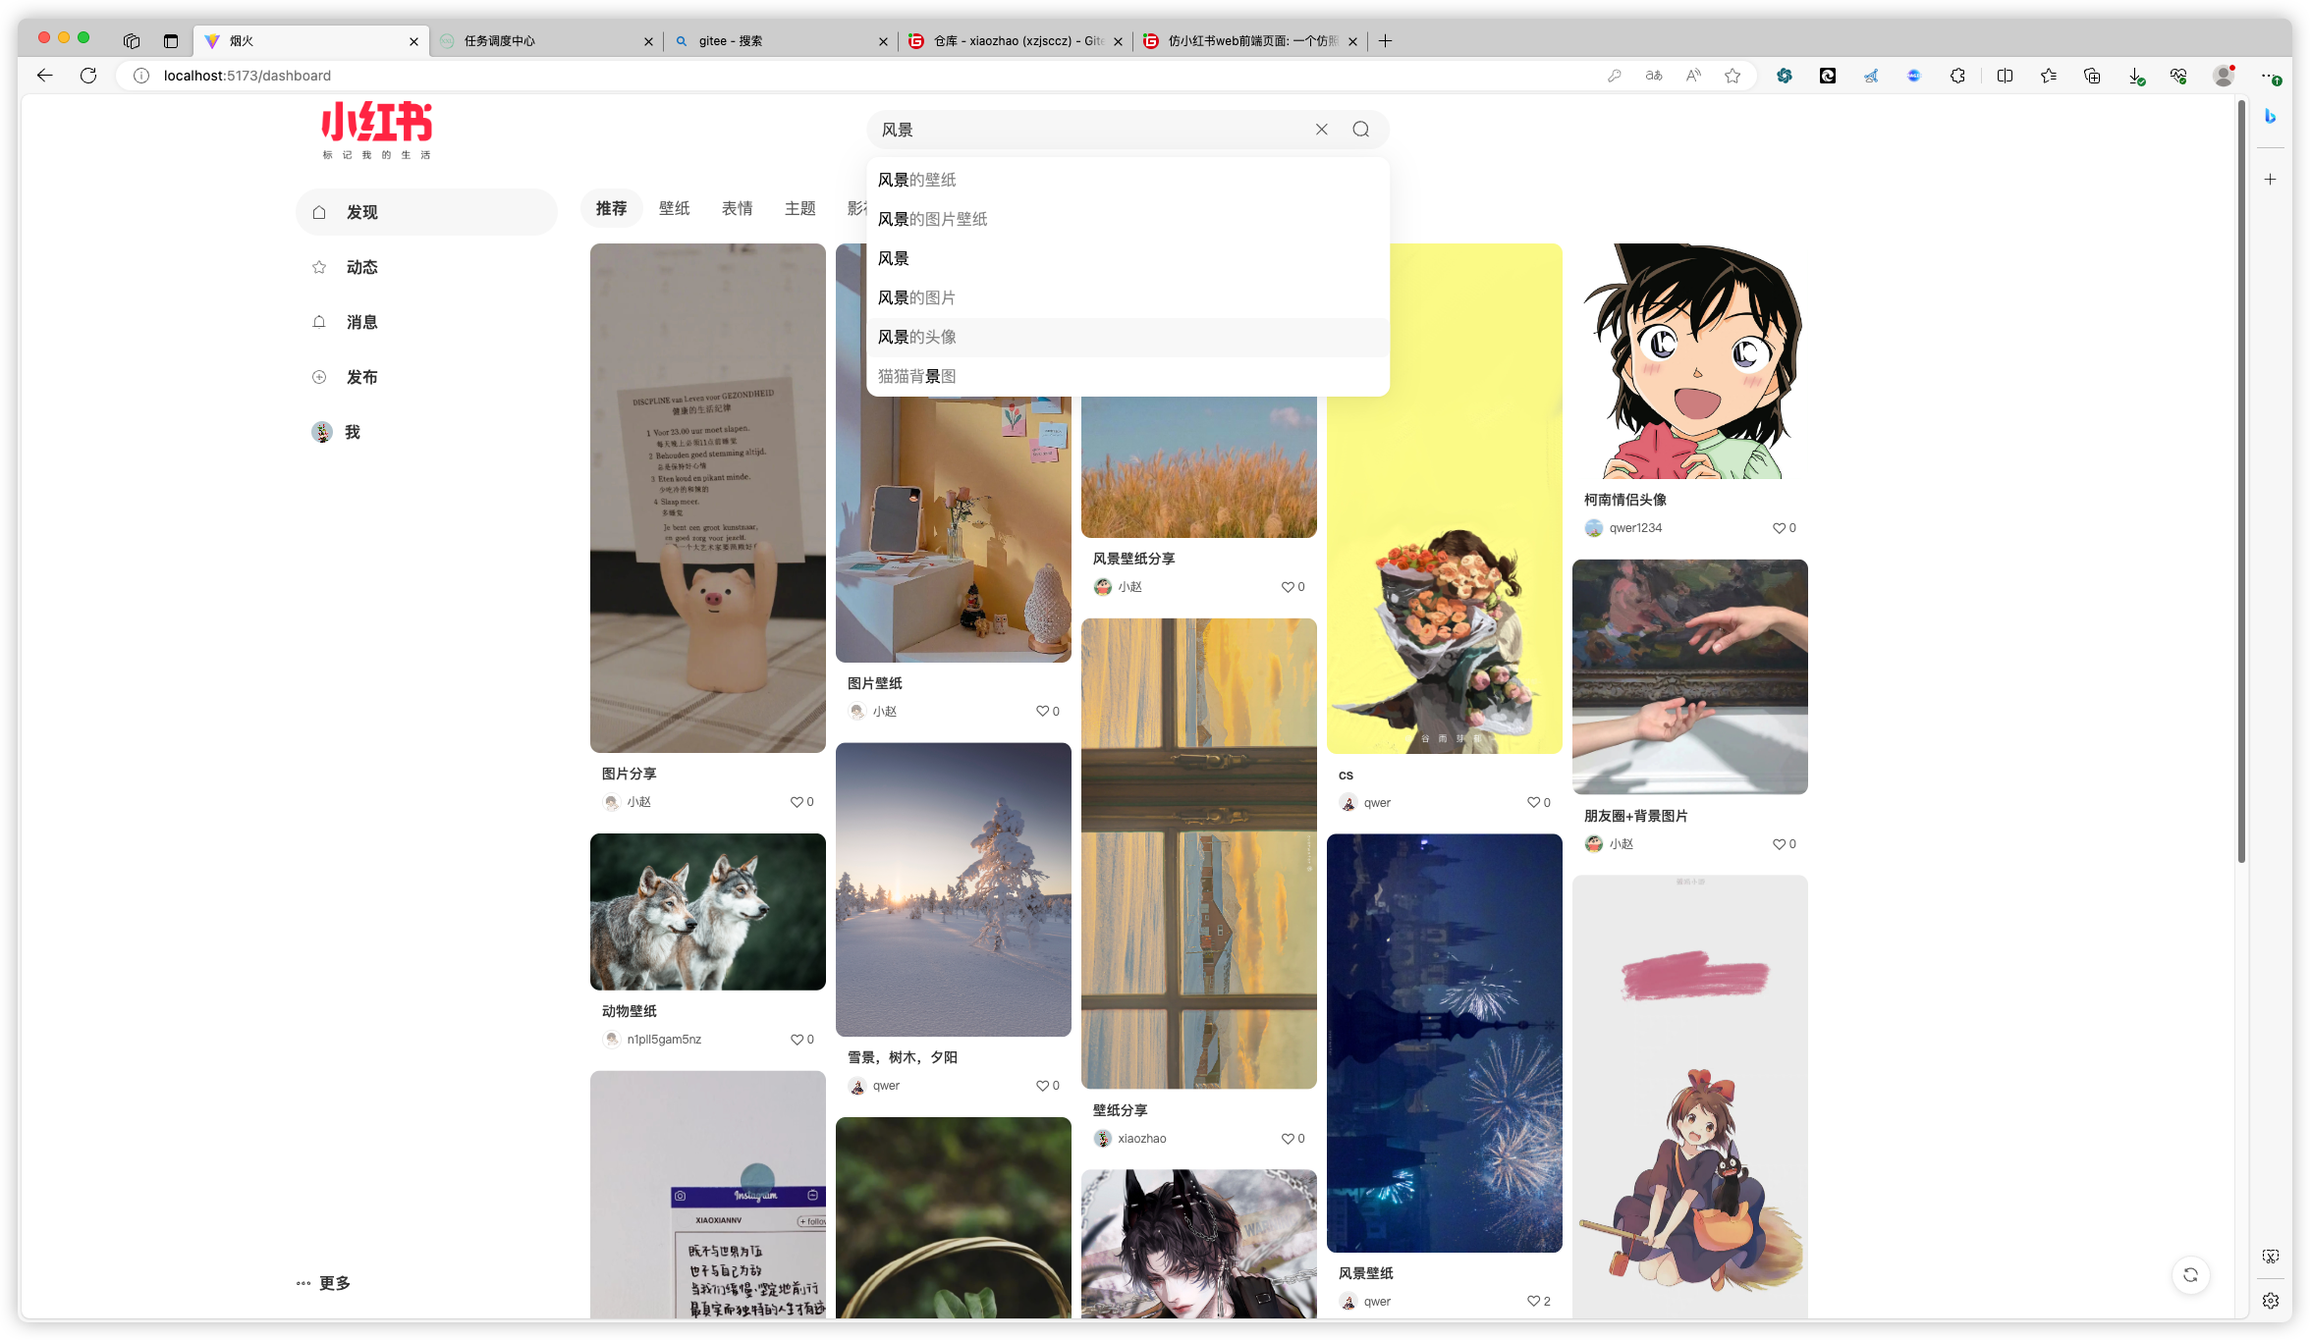
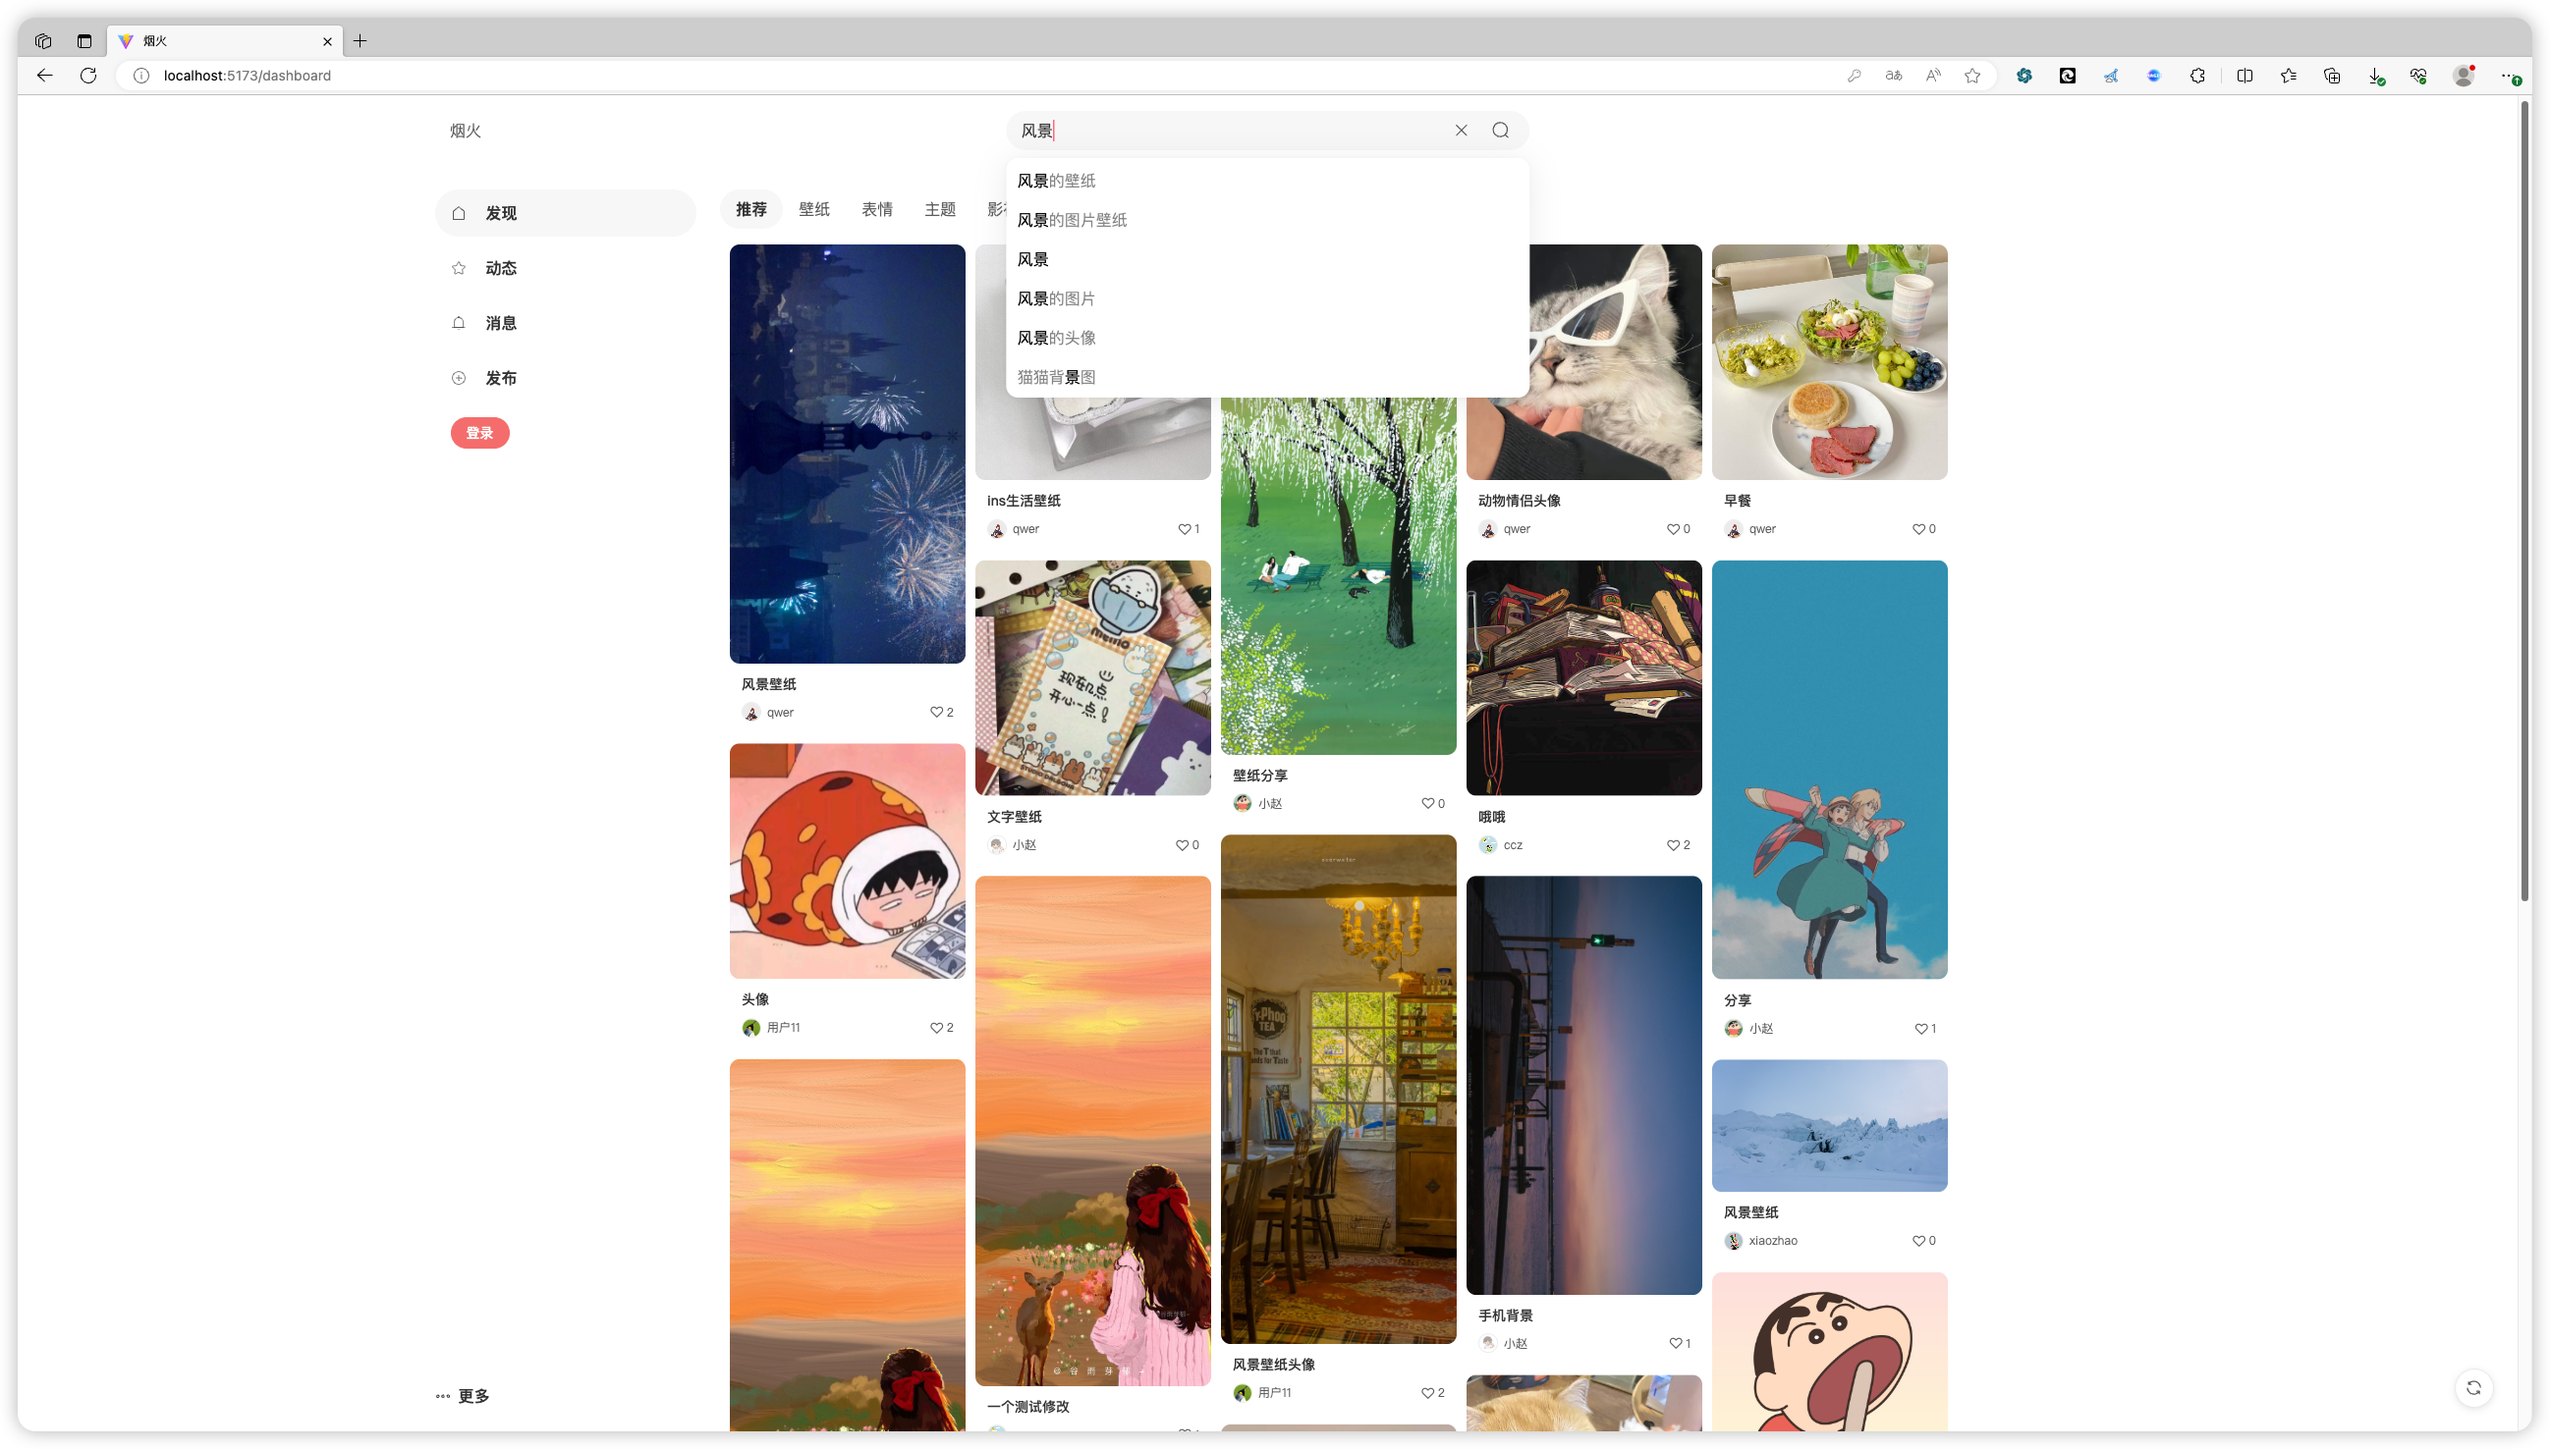
feat: 1.0.0版本上线

diff --git a/yanhuo-web/src/pages/login.vue b/yanhuo-web/src/pages/login.vue
@@ -7,7 +7,7 @@
         <Close style="width: 1em; height: 1em" />
       </div>
       <div class="left">
-        <img class="logo" src="@/assets/logo.png" />
+        <img class="logo" src="#" />
         <div class="course-video" style="display: none">
           <video
             src="https://fe-video-qc.xhscdn.com/fe-platform/f3ddbc4d8062e08c8684e1fa3bea7c2e2bb77c21.mp4"

diff --git a/yanhuo-web/src/pages/index.vue b/yanhuo-web/src/pages/index.vue
@@ -3,7 +3,8 @@
     <div class="top">
       <header class="mask-paper">
         <a style="display: flex">
-          <img src="@/assets/logo.png" />
+          <!--  -->
+          烟火
         </a>
         <div class="tool-box"></div>
         <div class="input-box" id="sujContainer">

diff --git a/README.md b/README.md
@@ -125,14 +125,14 @@ npm run dev
 
 ## 项目截图
 
-|                                       |                                               |
-|:-------------------------------------:|:---------------------------------------------:|
-|    ![image text](./doc/img/7.png)     |        ![image text](./doc/img/9.png)         |
-|    ![image text](./doc/img/10.png)    |        ![image text](./doc/img/11.png)        |
-|    ![image text](./doc/img/12.png)    |        ![image text](./doc/img/13.png)        |
-|    ![image text](./doc/img/14.png)    |        ![image text](./doc/img/15.png)        |
-|    ![image text](./doc/img/16.png)    |        ![image text](./doc/img/17.png)        |
-|    ![image text](./doc/img/18.png)    |        ![image text](./doc/img/19.png)        |
+|                                 |                                 |
+|:-------------------------------:|:-------------------------------:|
+| ![image text](./doc/img/7.png)  | ![image text](./doc/img/9.png)  |
+| ![image text](./doc/img/10.png) | ![image text](./doc/img/11.png) |
+| ![image text](./doc/img/16.png) | ![image text](./doc/img/12.png) |
+| ![image text](./doc/img/13.png) | ![image text](./doc/img/14.png) |
+| ![image text](./doc/img/15.png) | ![image text](./doc/img/18.png) |
+| ![image text](./doc/img/17.png) |  |
 
 ## 视频演示
 https://www.bilibili.com/video/BV1kN4y1n7gz/?spm_id_from=333.1007.top_right_bar_window_history.content.click
